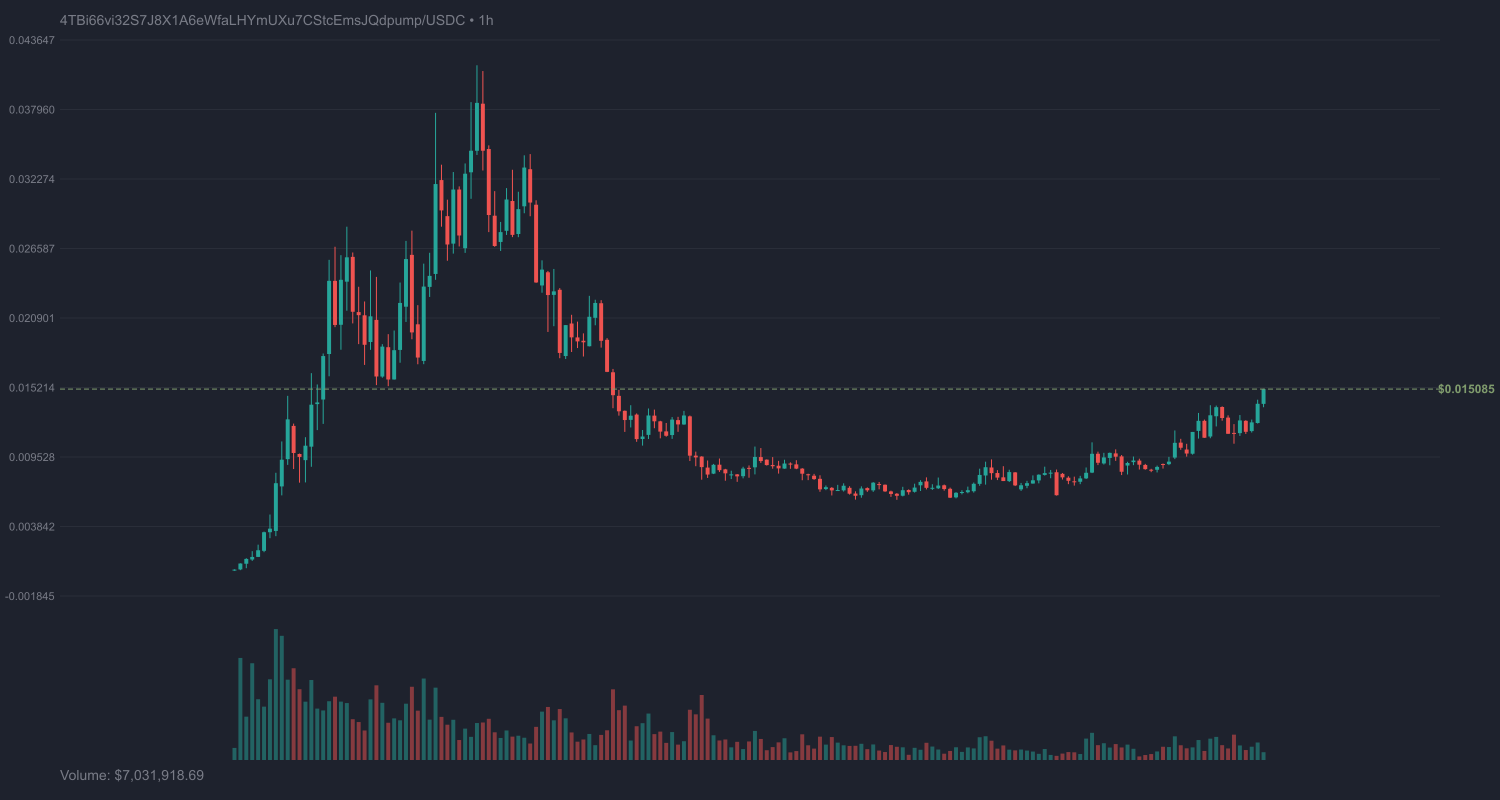
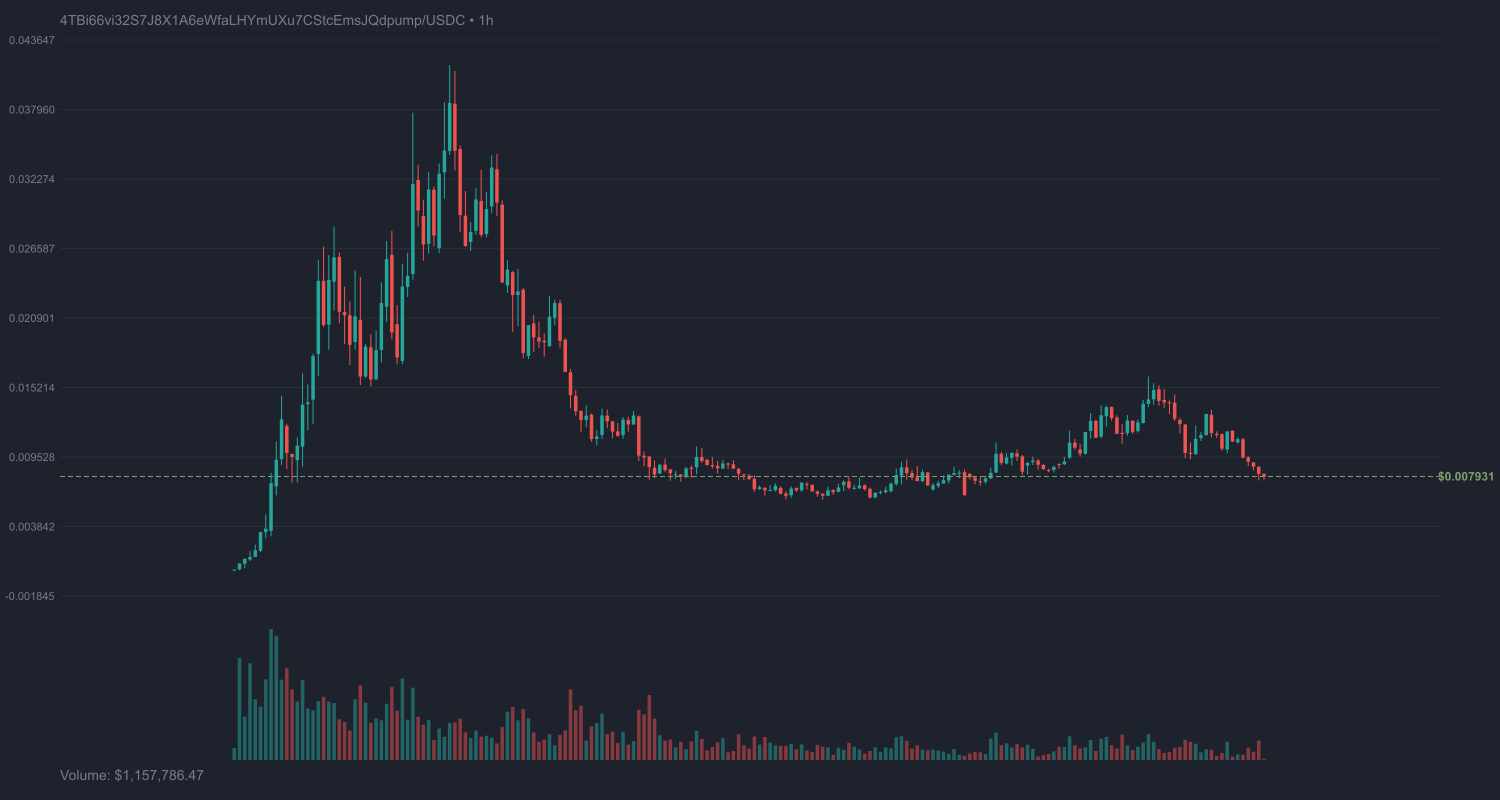
Chart command added

diff --git a/commands/chart.ts b/commands/chart.ts
@@ -1,0 +1,268 @@
+import { Context } from "telegraf";
+import { createAndSaveChart } from '../functions/charting';
+
+interface ChartConfig {
+    tokenAddress: string;
+    resolution: string;
+    timeStart: number | null;
+    timeEnd: number | null;
+    limit: number;
+}
+
+const defaultConfig: ChartConfig = {
+    tokenAddress: "",
+    resolution: '1d',
+    timeStart: null,
+    timeEnd: null,
+    limit: 1000
+};
+
+const validResolutions = ['15m', '30m', '1h', '2h', '3h', '4h', '1d', '1w', '1mo', '1y'];
+const waitingForInput = new Map<number, { type: 'token' | 'timeStart' | 'timeEnd' | 'limit', messageId: number, originalMessageId: number }>();
+
+export async function handleChartCommand(ctx: Context, args: string[]) {
+    console.log(args);
+        await ctx.reply(`__Chart Configuration__\n\nToken address: ${defaultConfig.tokenAddress || "Not set"}`, {
+            parse_mode: "Markdown",
+            reply_markup: {
+                inline_keyboard: [
+                    [
+                        {text: "Edit token address", callback_data: "chart_edit_token"}
+                    ],
+                    [
+                        {text: `Resolution: ${defaultConfig.resolution}`, callback_data: "chart_edit_resolution"},
+                        {text: `Limit: ${defaultConfig.limit}`, callback_data: "chart_edit_limit"}
+                    ],
+                    [
+                        {text: `${defaultConfig.timeStart ? "✅" : ""} Set start time`, callback_data: "chart_edit_timeStart"},
+                        {text: `${defaultConfig.timeEnd ? "✅" : ""} Set end time`, callback_data: "chart_edit_timeEnd"}
+                    ],
+                    [
+                        {text: "🔍 Generate Chart", callback_data: "chart_generate"},
+                    ]
+                ]
+            }
+        });
+    
+}
+
+export async function handleTextMessage(ctx: Context) {
+    const userId = ctx.from?.id;
+    if (!userId) return;
+
+    const waiting = waitingForInput.get(userId);
+    if (!waiting) return;
+
+    if (!ctx.message) return;
+    if (!('text' in ctx.message)) return;
+    const text = ctx.message.text;
+    if (!text) return;
+
+    await ctx.deleteMessage();
+
+    try {
+        if (ctx.chat?.id) {
+            await ctx.telegram.deleteMessage(ctx.chat.id, waiting.messageId);
+        }
+    } catch (error) {
+        console.error('Failed to delete message:', error);
+    }
+
+    switch (waiting.type) {
+        case 'token':
+            defaultConfig.tokenAddress = text;
+            break;
+        case 'timeStart':
+            const startTime = parseInt(text);
+            if (isNaN(startTime) || startTime < 0) {
+                await ctx.reply('Please enter a valid Unix timestamp');
+                return;
+            }
+            defaultConfig.timeStart = startTime;
+            break;
+        case 'timeEnd':
+            const endTime = parseInt(text);
+            if (isNaN(endTime) || endTime < 0) {
+                await ctx.reply('Please enter a valid Unix timestamp');
+                return;
+            }
+            defaultConfig.timeEnd = endTime;
+            break;
+        case 'limit':
+            const newLimit = parseInt(text);
+            if (isNaN(newLimit) || newLimit < 1 || newLimit > 1000) {
+                await ctx.reply('Please enter a valid number between 1 and 1000');
+                return;
+            }
+            defaultConfig.limit = newLimit;
+            break;
+    }
+
+    try {
+        if (ctx.chat?.id) {
+            await ctx.telegram.editMessageText(
+                ctx.chat.id,
+                waiting.originalMessageId,
+                undefined,
+                `__Chart Configuration__\n\nToken address: ${defaultConfig.tokenAddress || "Not set"}`,
+                {
+                    parse_mode: "Markdown",
+                    reply_markup: {
+                        inline_keyboard: [
+                            [
+                                {text: "Edit token address", callback_data: "chart_edit_token"}
+                            ],
+                            [
+                                {text: `Resolution: ${defaultConfig.resolution}`, callback_data: "chart_edit_resolution"},
+                                {text: `Limit: ${defaultConfig.limit}`, callback_data: "chart_edit_limit"}
+                            ],
+                            [
+                                {text: `${defaultConfig.timeStart ? "✅" : ""} Set start time`, callback_data: "chart_edit_timeStart"},
+                                {text: `${defaultConfig.timeEnd ? "✅" : ""} Set end time`, callback_data: "chart_edit_timeEnd"}
+                            ],
+                            [
+                                {text: "🔍 Generate Chart", callback_data: "chart_generate"},
+                            ]
+                        ]
+                    }
+                }
+            );
+        }
+    } catch (error) {
+        console.error('Failed to edit message:', error);
+    }
+
+    waitingForInput.delete(userId);
+}
+
+export async function handleChartCallback(ctx: Context, callbackData: string) {
+    const userId = ctx.from?.id;
+    if (!userId) return;
+
+    switch (callbackData) {
+        case "chart_edit_token":
+            const tokenMsg = await ctx.reply("Please enter a token address:", {
+                reply_markup: {
+                    force_reply: true
+                }
+            });
+            if (ctx.callbackQuery?.message) {
+                waitingForInput.set(userId, { 
+                    type: 'token', 
+                    messageId: tokenMsg.message_id,
+                    originalMessageId: ctx.callbackQuery.message.message_id
+                });
+            }
+            break;
+
+        case "chart_edit_resolution":
+            const currentIndex = validResolutions.indexOf(defaultConfig.resolution);
+            defaultConfig.resolution = validResolutions[(currentIndex + 1) % validResolutions.length];
+            if (ctx.callbackQuery?.message) {
+                await ctx.editMessageText(
+                    `__Chart Configuration__\n\nToken address: ${defaultConfig.tokenAddress || "Not set"}`,
+                    {
+                        parse_mode: "Markdown",
+                        reply_markup: {
+                            inline_keyboard: [
+                                [
+                                    {text: "Edit token address", callback_data: "chart_edit_token"}
+                                ],
+                                [
+                                    {text: `Resolution: ${defaultConfig.resolution}`, callback_data: "chart_edit_resolution"},
+                                    {text: `Limit: ${defaultConfig.limit}`, callback_data: "chart_edit_limit"}
+                                ],
+                                [
+                                    {text: `${defaultConfig.timeStart ? "✅" : ""} Set start time`, callback_data: "chart_edit_timeStart"},
+                                    {text: `${defaultConfig.timeEnd ? "✅" : ""} Set end time`, callback_data: "chart_edit_timeEnd"}
+                                ],
+                                [
+                                    {text: "🔍 Generate Chart", callback_data: "chart_generate"},
+                                ]
+                            ]
+                        }
+                    }
+                );
+            }
+            break;
+
+        case "chart_edit_timeStart":
+            const timeStartMsg = await ctx.reply("Enter start time (Unix timestamp):", {
+                reply_markup: {
+                    force_reply: true
+                }
+            });
+            if (ctx.callbackQuery?.message) {
+                waitingForInput.set(userId, { 
+                    type: 'timeStart', 
+                    messageId: timeStartMsg.message_id,
+                    originalMessageId: ctx.callbackQuery.message.message_id
+                });
+            }
+            break;
+
+        case "chart_edit_timeEnd":
+            const timeEndMsg = await ctx.reply("Enter end time (Unix timestamp):", {
+                reply_markup: {
+                    force_reply: true
+                }
+            });
+            if (ctx.callbackQuery?.message) {
+                waitingForInput.set(userId, { 
+                    type: 'timeEnd', 
+                    messageId: timeEndMsg.message_id,
+                    originalMessageId: ctx.callbackQuery.message.message_id
+                });
+            }
+            break;
+
+        case "chart_edit_limit":
+            const limitMsg = await ctx.reply("Enter a new limit (1-1000):", {
+                reply_markup: {
+                    force_reply: true
+                }
+            });
+            if (ctx.callbackQuery?.message) {
+                waitingForInput.set(userId, { 
+                    type: 'limit', 
+                    messageId: limitMsg.message_id,
+                    originalMessageId: ctx.callbackQuery.message.message_id
+                });
+            }
+            break;
+
+        case "chart_generate":
+            if (!defaultConfig.tokenAddress) {
+                await ctx.reply("Please set a token address first!");
+                return;
+            }
+
+            try {
+                const timestamp = Date.now();
+                const filename = `chart_${defaultConfig.tokenAddress}_${defaultConfig.resolution}_${timestamp}.png`;
+                
+                await ctx.reply("Generating chart...");
+                
+                await createAndSaveChart(
+                    defaultConfig.tokenAddress,
+                    defaultConfig.resolution,
+                    defaultConfig.timeStart || undefined,
+                    defaultConfig.timeEnd || undefined,
+                    defaultConfig.limit,
+                    filename
+                );
+
+                // await ctx.reply(`Chart generated successfully! Saved as ${filename}`);
+                await ctx.replyWithPhoto({
+                    source: filename,
+                    
+                }); 
+                // let file = Bun.file(filename)
+                // await file.delete()
+            } catch (error) {
+                console.error('Error generating chart:', error);
+                await ctx.reply('Failed to generate chart. Please check the token and parameters.');
+            }
+            break;
+    }
+} 

diff --git a/functions/charting.ts b/functions/charting.ts
@@ -1,7 +1,23 @@
 import { createCanvas } from 'canvas';
 
-async function getOhclvData(token: string) {
+async function getOhclvData(
+    token: string,
+    resolution: string = "1d",
+    timeStart?: number,
+    timeEnd?: number,
+    limit: number = 1000
+) {
     let url = `https://api.vybenetwork.xyz/price/${token}/token-ohlcv`;
+    
+    // Build query parameters
+    const params = new URLSearchParams();
+    params.append('resolution', resolution);
+    if (timeStart) params.append('timeStart', timeStart.toString());
+    if (timeEnd) params.append('timeEnd', timeEnd.toString());
+    params.append('limit', limit.toString());
+    
+    url += `?${params.toString()}`;
+    
     let response = await fetch(url, {
         headers: {
             'x-api-key': `${process.env.VYBE_API_KEY}`,
@@ -9,7 +25,9 @@ async function getOhclvData(token: string) {
             'Accept': 'application/json'
         }   
     });
+    console.log(response);
     let data = await response.json();
+    console.log(data);
     // Convert string values to numbers and sort by timestamp
     const processedData = data.data
         .map((d: any) => ({
@@ -134,7 +152,7 @@ function drawCryptoChart(data: any[], width: number, height: number, t1: string 
         ctx.fillStyle = '#787b86';
         ctx.font = '14px Arial';
         ctx.textAlign = 'left';
-        ctx.fillText(`${t1}/${t2} • ${aggregate}${timeUnit}`, margin.left, margin.top - 15);
+        ctx.fillText(`${t1}/${t2} • ${timeUnit}`, margin.left, margin.top - 15);
         
         // Add volume label
         const currentVolume = data[data.length - 1].volume;
@@ -148,12 +166,19 @@ function drawCryptoChart(data: any[], width: number, height: number, t1: string 
     }
 }
 
-async function createAndSaveChart(token: string, outputPath: string = 'chart.png'): Promise<void> {
-    // Get OHLCV data
-    const data = await getOhclvData(token);
+async function createAndSaveChart(
+    token: string,
+    resolution: string = "1d",
+    timeStart?: number,
+    timeEnd?: number,
+    limit: number = 1000,
+    outputPath: string = 'chart.png'
+): Promise<string> {
+    // Get OHLCV data with parameters
+    const data = await getOhclvData(token, resolution, timeStart, timeEnd, limit);
     
     // Create the chart
-    const canvas = drawCryptoChart(data, 1500, 800, token, "USDC", "h", "1");
+    const canvas = drawCryptoChart(data, 1500, 800, token, "WSOL", resolution, "1");
     
     if (!canvas) {
         throw new Error('Failed to create chart');
@@ -162,13 +187,14 @@ async function createAndSaveChart(token: string, outputPath: string = 'chart.png
     // Save the chart
     const buffer = canvas.toBuffer('image/png');
     await Bun.write(outputPath, buffer);
+    return outputPath;
 }
 
 // Example usage
-createAndSaveChart("4TBi66vi32S7J8X1A6eWfaLHYmUXu7CStcEmsJQdpump").then(() => {
-    console.log('Chart saved successfully!');
-}).catch(error => {
-    console.error('Error creating chart:', error);
-});
+// createAndSaveChart("4TBi66vi32S7J8X1A6eWfaLHYmUXu7CStcEmsJQdpump").then(() => {
+//     console.log('Chart saved successfully!');
+// }).catch(error => {
+//     console.error('Error creating chart:', error);
+// });
 
 export { getOhclvData, createAndSaveChart };

diff --git a/index.ts b/index.ts
@@ -3,6 +3,7 @@ import { getNftBalances, handleNftCallback, handleTextMessage as handleNftTextMe
 import { getPnl, handlePnlCallback, handleTextMessage as handlePnlTextMessage } from "./commands/pnl";
 import { getTokenBalances, handleTokenBalancesCallback, handleTextMessage as handleTokenBalancesTextMessage } from "./commands/token_balances";
 import { getNftHolders, handleNftHoldersCallback, handleTextMessage as handleNftHoldersTextMessage } from "./commands/nft_holders";
+import { handleChartCommand, handleChartCallback, handleTextMessage as handleChartTextMessage } from "./commands/chart";
 import dotenv from "dotenv";
 
 dotenv.config();
@@ -29,11 +30,16 @@ bot.command("nft_holders", (ctx) => {
     getNftHolders(ctx, null);
 });
 
+bot.command("chart", (ctx) => {
+    handleChartCommand(ctx, ctx.message.text.split(" "));
+});
+
 bot.on("text", async (ctx) => {
     await handleNftTextMessage(ctx);
     await handlePnlTextMessage(ctx);
     await handleTokenBalancesTextMessage(ctx);
     await handleNftHoldersTextMessage(ctx);
+    await handleChartTextMessage(ctx);
 });
 
 bot.on("callback_query", async (ctx) => {
@@ -52,6 +58,8 @@ bot.on("callback_query", async (ctx) => {
             } else if (callbackData.startsWith("nft_holders_")) {
                 console.log("nft_holders_callback");
                 await handleNftHoldersCallback(ctx, callbackData);
+            } else if (callbackData.startsWith("chart_")) {
+                await handleChartCallback(ctx, callbackData);
             }
             await ctx.answerCbQuery();
         } catch (error) {

diff --git a/README.md b/README.md
@@ -34,7 +34,7 @@ Convert the following endpoints into charting commands
 
 - [ ] Pair-OHLCV
 - [ ] Market-OHLCV
-- [ ] Token-OHLCV
+- [x] Token-OHLCV
 
 
 ### Programs
